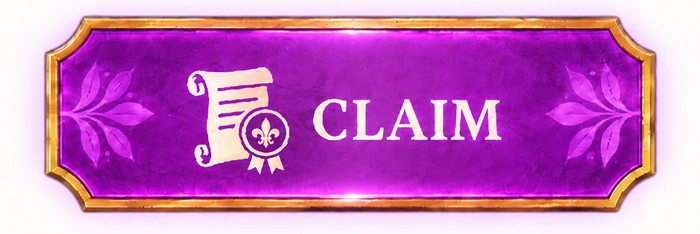
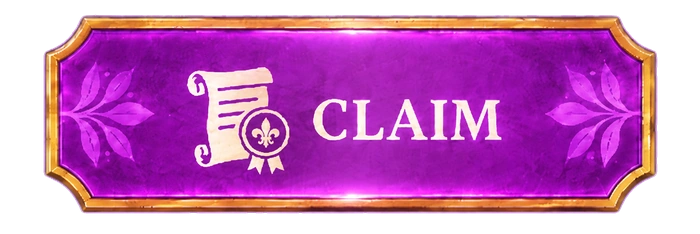
fix(action-images): issue 21 F4 transparent asset backgrounds

diff --git a/coup-client/src/components/game/Coup.js b/coup-client/src/components/game/Coup.js
@@ -14,7 +14,6 @@ import blockStealImage from '../../assets/action-buttons/bs.webp'
 import blockStealActiveImage from '../../assets/action-buttons/bs-active.webp'
 import challengeImage from '../../assets/action-buttons/c.webp'
 import challengeActiveImage from '../../assets/action-buttons/c-active.webp'
-import claimImage from '../../assets/action-buttons/claim.webp'
 import passImage from '../../assets/action-buttons/pass.webp'
 import passActiveImage from '../../assets/action-buttons/pass-active.webp'
 
@@ -229,8 +228,6 @@ export default class Coup extends Component {
                 {decision && <>
                     <p className="DecisionTitle">{decision.title}</p>
                     <p>{decision.description}</p>
-                    {(decision.type === 'challenge' || decision.type === 'block_challenge') &&
-                        <img className="DecisionClaimContext" src={claimImage} alt="" aria-hidden="true" />}
                     <div className="DecisionButtonsContainer">
                         {decision.options.map(option => {
                             const imageButton = responseButtonFor(decision, option)

diff --git a/coup-client/src/components/game/CoupStyles.css b/coup-client/src/components/game/CoupStyles.css
@@ -370,13 +370,6 @@
     line-height: 1.2;
 }
 
-.DecisionClaimContext {
-    display: block;
-    width: clamp(10rem, 46vw, 22rem);
-    max-width: 100%;
-    height: auto;
-    margin: 8px auto 12px;
-}
 #captain {
     background-color: #80C6E5;
 }

diff --git a/docs/plans/action-image-buttons/plan_action_image_buttons.md b/docs/plans/action-image-buttons/plan_action_image_buttons.md
@@ -1,18 +1,18 @@
 # Botones gráficos de respuesta de partida — issue #21
 
-**Estado:** `WAITING_ORCHESTRATOR`; F1 `CLOSED`; F2 `CLOSED`; F3 `BLOCKED`.
+**Estado:** `WAITING_ORCHESTRATOR`; F1/F2/F4 `CLOSED`; F3 `BLOCKED` hasta validación visual del usuario y walkthrough en navegador.
 **Unidad:** https://github.com/pronficilio/coup-online/issues/21
 **Handoff:** `docs/plans/active/issue_21_action_image_buttons.md`
 **Bitácora:** `docs/plans/log/issue-21.jsonl`
 **Modo / riesgo / verificación:** `FULL` / `MEDIUM` / `FINAL`.
 **Branch/worktree/PR:** `issue/21-action-image-buttons` / `.worktrees/issue-21-action-image-buttons` / una PR a `master` de `pronficilio/coup-online`.
-**Siguiente dueño:** Orquestador; F3 requiere un entorno con navegador para completar el recorrido manual.
+**Siguiente dueño:** Orquestador; F3 requiere validación visual del usuario y un entorno con navegador para completar el recorrido manual.
 
 ## Solicitud y éxito
 
-Preparar los pares gráficos `ba`, `bfa`, `bs`, `pass`, `c` y sus variantes `-active`, reducir cada fuente al 50 % de su tamaño actual manteniendo proporción, exportar WebP y colocarlos en el cliente React. Después del cierre F1 se añadió el par `claim`/`claim-active` para usar `claim` como contexto visual no interactivo. Reemplazar los botones de respuesta correspondientes y animar el cambio visual de estado.
+Preparar los pares gráficos `ba`, `bfa`, `bs`, `pass`, `c`, `claim` y sus variantes `-active`, reducir cada fuente al 50 % de su tamaño actual manteniendo proporción, exportar WebP y colocarlos en el cliente React. Reemplazar los botones de respuesta correspondientes y animar el cambio visual de estado. F4 removió el fondo exterior de los WebP y quitó Claim decorativo del renderer; la descripción textual conserva ese contexto.
 
-Éxito significa que las cinco acciones usan su ilustración correcta en las ventanas de respuesta, Claim aparece junto al contexto del reclamo y no como una opción, los doce archivos son WebP a la mitad de sus dimensiones de origen, las variantes activas se perciben con una transición breve y las reglas, elegibilidad, opciones y payloads permanecen intactos. La interacción conserva acceso por teclado, foco visible y movimiento reducido.
+Éxito significa que las cinco acciones usan su ilustración correcta en las ventanas de respuesta, los doce archivos son WebP con alfa a la mitad de sus dimensiones de origen actual, los halos y bordes permanecen visibles, las variantes activas se perciben con una transición breve y las reglas, elegibilidad, opciones y payloads permanecen intactos. La interacción conserva acceso por teclado, foco visible y movimiento reducido. F3 sigue `BLOCKED` hasta que el usuario valide visualmente los recursos corregidos y se realice walkthrough en navegador.
 
 ## Hechos, supuesto y dependencias
 
@@ -20,20 +20,20 @@ Preparar los pares gráficos `ba`, `bfa`, `bs`, `pass`, `c` y sus variantes `-ac
 - La issue #6 y PR #11 están cerradas/mergeadas. Esta solicitud necesita una unidad propia.
 - La PR #23 de #14 ya se integró en `master` en `2d82fa1e0d67ba9e48d7885f9c3ae171360425bd`; el worktree canónico #21 se sincronizó en el merge `b93a67c`. F2 ahora se implementa sobre el renderer genérico de `decision.options` y conserva `g-submitDecision({decisionId,stateVersion,choiceId})`. La PR #22 de #19 no toca `Coup.js` ni cambia este flujo.
 - Las fuentes están en `/mnt/e/dev/coup/fotos/`, carpeta ignorada por Git. El Ejecutor debe tratarlas como solo lectura; no sobrescribir los PNG. Crear derivados dentro del worktree y versionar los WebP del cliente.
-- Dimensiones fuente: `ba` 2172×724; `bfa` 1024×341; `bs` 1024×341; `pass` 1020×341; `c` 1400×468; `claim` 1400×468 (este último par se agregó después del cierre F1).
-- Las fuentes son RGB sin canal alfa; los derivados conservan el canvas y el fondo de cada fuente. F1 solo reduce dimensiones y convierte formato; no extrae mate ni reconstruye el arte.
-- Mitad esperada, redondeada al píxel más cercano: `ba` 1086×362; `bfa` 512×171; `bs` 512×171; `pass` 510×171; `c` 700×234; `claim` 700×234. Cada variante activa coincide con su par. F1 cerró sus diez imágenes originales; `claim`/`claim-active` son una adición de alcance procesada durante F2 con el mismo pipeline.
+- Dimensiones de fuentes RGB actuales en `/mnt/e/dev/coup/fotos/`: `ba` 2172×724; `bfa` 1024×341; `bs` 1024×341; `pass` 1020×341; `c` 1024×342; `claim` 1400×468. Los PNG se tratan como solo lectura.
+- F1 cerró diez WebP RGB preservando canvas/fondo. Claim se añadió como par después del cierre F1 y F2 lo exportó como RGB. F4 regeneró las doce salidas en RGBA, haciendo transparente el fondo exterior conectado a los bordes; el arte interior, los bordes y halos activos se conservan según la revisión de previews.
+- Dimensiones actuales al 50 %, redondeadas al píxel más cercano: `ba` 1086×362; `bfa` 512×171; `bs` 512×171; `pass` 510×171; `c` 512×171; `claim` 700×234. Cada variante activa coincide con su par. F1 documenta que la fuente de `c` entonces era 1400×468; la copia fuente actual es 1024×342 y F4 usa esta última.
 
 ## Alcance
 
-Incluye doce recursos (los diez entregados por F1 más `claim` y `claim-active` añadidos en F2) y los controles de respuesta `Challenge`, `Block Foreign Aid`, `Block Steal`, `Block Assassination` y `Pass`. Mapeo sobre el renderer genérico: `challenge` + choice `challenge` → `c`; choice `pass` → `pass`; tipo `block` + `block:duke` → `bfa`, `block:captain`/`block:ambassador` → `bs` con la elección textual preservada, y `block:contessa` → `ba`. `claim` aparece como recurso no interactivo en el contexto visual de las descripciones `challenge`/`block_challenge`; no crea una opción. Las variantes activas de los botones se usan en hover, foco visible y pulsación, con transición breve.
+Incluye doce recursos (diez entregados por F1 más `claim` y `claim-active` añadidos después del cierre F1) y los controles de respuesta `Challenge`, `Block Foreign Aid`, `Block Steal`, `Block Assassination` y `Pass`. Mapeo sobre el renderer genérico: `challenge` + choice `challenge` → `c`; choice `pass` → `pass`; tipo `block` + `block:duke` → `bfa`, `block:captain`/`block:ambassador` → `bs` con la elección textual preservada, y `block:contessa` → `ba`. Claim no crea una opción ni se renderiza como imagen desde F4 porque la descripción textual basta. Las variantes activas de los botones se usan en hover, foco visible y pulsación, con transición breve.
 
 Fuera de alcance: acciones principales del turno (`Income`, `Foreign Aid`, `Tax`, `Coup`, `Steal`, `Exchange`, `Assassinate`), reglas de juego, servidor, forma de Socket.IO, nombres de eventos/payloads y nueva biblioteca de animación.
 
 ## Criterios de aceptación
 
-1. Los diez derivados originales se reducen a 50 % en F1 y el par `claim` se añade durante F2; en total son doce WebP, con relación preservada y cada pareja normal/activa en dimensiones coincidentes.
-2. WebP versionados bajo una ruta de assets del cliente; canvas y fondo RGB conservados, sin recorte ni cambio visual deliberado.
+1. Los diez derivados originales se reducen a 50 % en F1 y el par `claim` se añade después; en total son doce WebP RGBA al 50 % de la fuente actual, con proporción preservada y parejas normal/activa en dimensiones coincidentes.
+2. WebP versionados bajo una ruta de assets del cliente; fondo exterior transparente, sin matte rectangular ni pérdida visible de arte, bordes o halos.
 3. Cada control visible utiliza el par correcto y conserva botón semántico, acción, destinatario, handlers, evento y payload actuales.
 4. La variante activa aparece con una transición perceptible al interactuar; no desplaza el layout ni retrasa la acción/socket.
 5. El nombre accesible, foco visible, teclado, contraste/legibilidad, ventana móvil y `prefers-reduced-motion` siguen siendo utilizables.
@@ -78,13 +78,23 @@ Fuera de alcance: acciones principales del turno (`Income`, `Foreign Aid`, `Tax`
 **Pregunta:** ¿se puede refutar que los recursos y controles son consistentes y utilizables?
 
 **Entrada:** F1/F2 cerradas y diff consolidado.
-**Evidencia:** build de producción, dimensiones y tamaños de los doce WebP, recorrido de las cinco respuestas y del contexto Claim en escritorio/móvil, foco/teclado y reduced motion; reporte F3 y dictamen independiente.
+**Evidencia:** build de producción, dimensiones y tamaños de los doce WebP, recorrido de las cinco respuestas en escritorio/móvil, foco/teclado y reduced motion; reporte F3 y dictamen independiente. La imagen Claim se retiró en F4; la descripción conserva el texto.
 **Falsificación:** buscar un par con escala incorrecta, halo o texto ilegible; activar acción con jugador no elegible; encontrar un evento/payload distinto, una respuesta inaccesible, un layout shift o transición que atrase el envío.
 **Avanzar:** AC1–AC6 sustentados y Verifier `PASS`; entregar a `WAITING_ORCHESTRATOR` para una PR única.
 **Bloquear:** build/recorrido imposible o F2 sigue sin liberar superficies compartidas.
 **Commit:** commit local de documentación F3 con veredicto `BLOCKED`; no marcar listo para revisión.
 
 **Resultado de revisión independiente (2026-09-27):** `BLOCKED`. El build y las inspecciones estáticas/formato pasaron; no hay navegador disponible para ejecutar el recorrido manual exigido por AC6 y verificar render móvil, foco e interacción. Ver `report_issue_21_F3.md`. No instalar dependencias ni navegador para esta revisión.
+
+### F4 — Corregir fondos WebP (`CLOSED`; F3 continúa `BLOCKED`)
+
+**Pregunta:** ¿se elimina el fondo exterior sin perder los bordes ni los halos de las imágenes?
+
+**Entrada:** feedback visual del usuario y fuentes PNG actuales en `/mnt/e/dev/coup/fotos/`.
+**Tareas:** regenerar las doce salidas WebP en RGBA al 50 % de las fuentes actuales, revisar previews compuestos sobre fondo slate y retirar el Claim decorativo de la ventana challenge.
+**Avanzar:** formato/modo/dimensiones verificados; los previews conservan el arte y halos y no muestran matte rectangular; build del cliente y `git diff --check` pasan.
+**Resultado:** F4 cierra la corrección local tras revisión visual/build. El par Claim permanece en el inventario pero no se muestra; no es una opción. F3 sigue bloqueada hasta validación visual del usuario y walkthrough manual en navegador.
+**Reporte:** `docs/plans/action-image-buttons/report_issue_21_F4.md`.
 
 ## Decisiones e historial
 
@@ -95,6 +105,7 @@ Fuera de alcance: acciones principales del turno (`Income`, `Foreign Aid`, `Tax`
 - 2026-09-27: #14 PR #23 integrada en `master` en `2d82fa1`; worktree #21 sincronizado con merge `b93a67c`. El usuario confirmó F2 sobre el renderer genérico y añadió `claim`/`claim-active` 1400×468 como contexto no interactivo. Claim se procesa al 50 % con el pipeline F1; diez WebP F1 más dos WebP Claim.
 - 2026-09-27: F2 completada en `feat(action-images): issue 21 F2 image response controls and transition`. `npm run build` compiló; no había navegador para recorrido visual, lo cual queda anotado en el reporte. La unidad espera Orquestador/Verifier para F3.
 - 2026-09-27: Verifier independiente F3: build y revisión estática PASS; formato/dimensiones/modo de doce WebP coinciden con el inventario F1/F2. F3 `BLOCKED`: no hay navegador para el walkthrough obligatorio; además, las copias ignoradas actuales de `c.png`/`c-active.png` son posteriores a F1 y no permiten confirmar la fuente histórica. Sin tests.
+- 2026-09-27: F4 correctiva por feedback visual: regenerados los doce WebP con alfa desde los PNG actuales (sin modificarlos), incluyendo `c`/`c-active` actuales 1024×342 → 512×171. Revisión de doce previews sin pérdida visible de halos/bordes ni matte rectangular; se retiró Claim decorativo del renderer. F3 continúa `BLOCKED` hasta validación visual del usuario y walkthrough; ver `report_issue_21_F4.md`.
 
 - 2026-09-27 04:42 UTC: Alquimista reclamó #21 mediante comentario, la releyó OPEN y confirmó que no había claim incompatible ni PR candidata; F1 activa en branch/worktree canónicos.
 

diff --git a/docs/plans/active/issue_21_action_image_buttons.md b/docs/plans/active/issue_21_action_image_buttons.md
@@ -3,13 +3,14 @@
 - **Issue:** https://github.com/pronficilio/coup-online/issues/21
 - **Plan exacto:** `docs/plans/action-image-buttons/plan_action_image_buttons.md`
 - **Bitácora exacta:** `docs/plans/log/issue-21.jsonl`
-- **Estado:** `WAITING_ORCHESTRATOR`; F1 `CLOSED`; F2 `CLOSED`; F3 `BLOCKED`.
+- **Estado:** `WAITING_ORCHESTRATOR`; F1/F2/F4 `CLOSED`; F3 `BLOCKED` hasta que el usuario valide visualmente los assets y se complete walkthrough con navegador.
 - **Reporte F1:** `docs/plans/action-image-buttons/report_issue_21_F1.md`.
 - **Modo / riesgo / verificación:** `FULL` / `MEDIUM` / `FINAL`.
 - **Reporte F3:** `docs/plans/action-image-buttons/report_issue_21_F3.md` (`BLOCKED`).
-- **Verifier requerido ahora:** revisión independiente completada; falta walkthrough en navegador para desbloquear F3.
+- **Reporte F4:** `docs/plans/action-image-buttons/report_issue_21_F4.md` (`CLOSED`).
+- **Verifier requerido ahora:** falta validación visual del usuario y walkthrough en navegador para desbloquear F3.
 - **Falsificación:** ¿hay un par con escala, formato o contenido incorrectos; una acción que se puede disparar por jugador no elegible; un payload/handler cambiado; un control sin acceso por teclado; un layout shift o transición que retrasa el envío?
-- **Estado de fase:** F1 y F2 cerradas. F2 adaptó los cinco botones al renderer genérico en la base sincronizada tras #14 PR #23 (`2d82fa1`, merge canónico #21 `b93a67c`) y añadió Claim como contexto no interactivo. F3 confirmó el build, contrato estático e inventario WebP, pero permanece bloqueada porque no hay navegador para completar el recorrido visual/teclado en escritorio y móvil.
+- **Estado de fase:** F1, F2 y F4 cerradas. F2 adaptó los cinco botones al renderer genérico en la base sincronizada tras #14 PR #23 (`2d82fa1`, merge canónico #21 `b93a67c`) y añadió el par Claim al inventario. F4 regeneró los doce WebP con alfa y quitó Claim decorativo del renderer. F3 sigue bloqueada hasta validación visual del usuario y walkthrough de las cinco respuestas con navegador en escritorio y móvil.
 - **Documentos fuente:** issue #21; plan exacto arriba; `docs/plans/turn-actions-panel/plan_turn_actions_panel.md`; `docs/plans/game-language/plan_game_language.md`; componentes en `coup-client/src/components/game/`.
 
 ## Subtareas listas
@@ -20,7 +21,7 @@
 4. F1 verificada visualmente y por formato/dimensiones/modo; reporte `docs/plans/action-image-buttons/report_issue_21_F1.md`; commit `feat(action-images): issue 21 F1 import optimized webp controls`.
 5. #14 PR #23 se integró a `master`; #21 se sincronizó en `b93a67c`. F2 activa sobre `Coup.js` genérico; conservar `decision.options` y `g-submitDecision({decisionId,stateVersion,choiceId})`.
 6. Mapear Challenge (`challenge`), Pass (`pass`), Block Foreign Aid (`block:duke`), Block Steal (`block:captain`/`block:ambassador`) y Block Assassination (`block:contessa`) a sus imágenes. Mantener el texto de Captain/Ambassador y otros tipos de opción.
-7. Añadir Claim al 50 % como imagen contextual no interactiva solo en descripciones de `challenge`/`block_challenge`; no crear opción Claim.
+7. F2 añadió el par Claim al inventario sin crear opción Claim; F4 quitó la imagen contextual. Las descripciones textuales permanecen.
 8. Añadir transición breve entre estados normal/activo con nombre accesible, foco, teclado y `prefers-reduced-motion`; compilar y recorrer manualmente.
 9. Dejar la unidad `WAITING_ORCHESTRATOR`; no integrar ni cerrar. Preparar material para Verifier independiente FINAL.
 
@@ -28,13 +29,14 @@
 
 Cumplir AC1–AC7 del plan. Build del cliente, inspección de los diez WebP y recorrido manual registrados en los reportes; no añadir ni ejecutar tests automatizados. Fuera de alcance: acciones principales, reglas, servidor, Socket.IO, nueva dependencia de animación.
 
-**Riesgo/bloqueos:** archivos fuente ignorados en RGB; preservar el canvas y el fondo. No hay navegador ejecutable desde esta sesión WSL: Chrome del host (`/mnt/c/Program Files/Google/Chrome/Application/chrome.exe`) falla antes de iniciar con `UtilBindVsockAnyPort:307`; no se instalaron navegadores. Se requiere walkthrough de las cinco respuestas y contexto Claim en escritorio/móvil, teclado/foco y reduced motion para cambiar F3 de `BLOCKED`. Las copias actuales ignoradas de `c.png`/`c-active.png` tienen 1024×342 RGB y mtime posterior a F1; no sustituyen las fuentes históricas de 1400×468 documentadas por F1.
+**Riesgo/bloqueos:** fuentes ignoradas RGB sin modificaciones; F4 elimina solo el fondo exterior y mantiene bordes/halos según preview. No hay navegador ejecutable desde esta sesión WSL: Chrome del host (`/mnt/c/Program Files/Google/Chrome/Application/chrome.exe`) falla antes de iniciar con `UtilBindVsockAnyPort:307`; no se instalaron navegadores. El usuario debe validar visualmente los assets y hace falta walkthrough de las cinco respuestas en escritorio/móvil, teclado/foco y reduced motion para cambiar F3 de `BLOCKED`. Las copias actuales ignoradas de `c.png`/`c-active.png` miden 1024×342 RGB y F4 las usó para salidas de 512×171; no sustituyen las fuentes históricas de 1400×468 documentadas por F1.
 
 ## Commits por fase
 
 - F1 `94b1447bb0b5fb1613e3f7cf226993077a2f0da7`: `feat(action-images): issue 21 F1 import optimized webp controls`
 - F2 `4d288199d14ccfeeeaec5a35dd4230b893ee0b4f`: `feat(action-images): issue 21 F2 image response controls and transition`
 - F3: commit local de documentación con reporte `BLOCKED`; el recorrido manual sigue pendiente antes de revisión de integración.
+- F4: cierre canónico en esta fase; corrección de alfa, retirada de Claim decorativo, build y revisión de previews.
 
 ## Topología y reclamo
 
@@ -44,8 +46,8 @@ Cumplir AC1–AC7 del plan. Build del cliente, inspección de los diez WebP y re
 - **PR esperada:** una desde la rama del issue a `master`.
 - **Bitácora:** `docs/plans/log/issue-21.jsonl` (append-only).
 - **Secuencia:** primero registrar claim en el issue del fork y releer; luego crear/confirmar una sola branch/worktree desde `origin/master` actualizada; dentro del worktree mover este inbox a `active/`, registrar claim/worktree/phase_start en JSONL y commitear control.
-- **Validaciones:** F1 conserva su reporte de diez imágenes; Claim y F2 están documentados en `report_issue_21_F2.md`; `npm run build` pasó; recorrido visual pendiente por falta de navegador; no tests.
-- **Delegación:** Alquimista cerró F2 en el worktree canónico actualizado tras #14 PR #23; Verifier independiente completó F3 como `BLOCKED`.
+- **Validaciones:** F1 conserva su reporte histórico de diez imágenes; el par Claim se añadió después; F2 está documentada en `report_issue_21_F2.md`; F4 registra inventario RGBA actual y resultado de build; recorrido visual en navegador pendiente; no tests.
+- **Delegación:** Alquimista cerró F2 en el worktree canónico actualizado tras #14 PR #23; Verifier dejó F3 `BLOCKED`; Alquimista cerró F4 correctiva y mantiene F3 bloqueada hasta validación visual del usuario.
 - **Verifier:** revisión F3 independiente registrada en `report_issue_21_F3.md`; está `BLOCKED` por falta de navegador para el walkthrough de AC6.
 
 ## Confirmación de reclamo y aislamiento
@@ -54,4 +56,8 @@ Issue #21 releída antes de reanudar F2: OPEN, sin assignee, con reclamo F1 y co
 
 ## F1 entregada
 
-F1 produjo diez derivados WebP al 50 %, preservando los canvas RGB. Después se añadió Claim; F2 generó sus dos variantes al 50 % con el mismo encoder, pero usa solo `claim.webp` como contexto visual no interactivo. Ver `docs/plans/action-image-buttons/report_issue_21_F1.md` y `report_issue_21_F2.md`.
+F1 produjo diez derivados WebP al 50 %, preservando los canvas RGB. Después se añadió Claim; F2 generó sus dos variantes como recursos contextuales no interactivos. F4 regeneró las doce salidas con alfa y retiró Claim visual del renderer. Ver `docs/plans/action-image-buttons/report_issue_21_F1.md`, `report_issue_21_F2.md` y `report_issue_21_F4.md`.
+
+## Corrección visual F4
+
+F4 generó las seis parejas desde las fuentes RGB actuales a WebP RGBA al 50 %, sin modificar PNG. `c`/`c-active` actuales miden 1024×342 y sus salidas, 512×171 (F1 conserva el dato histórico de 1400×468). Las previews revisadas conservan arte, bordes y halos sin matte rectangular. El Claim gráfico no se muestra; la descripción de la decisión mantiene ese contexto. F3 sigue `BLOCKED` hasta validación visual del usuario y walkthrough en navegador.

diff --git a/docs/plans/action-image-buttons/report_issue_21_F4.md b/docs/plans/action-image-buttons/report_issue_21_F4.md
@@ -1,0 +1,53 @@
+# Reporte F4 — issue #21: corrección visual de fondos WebP
+
+**Estado:** `CLOSED`; unidad `WAITING_ORCHESTRATOR`; F3 permanece `BLOCKED`.
+**Branch/worktree:** `issue/21-action-image-buttons` / `.worktrees/issue-21-action-image-buttons`.
+**Base revisada:** F3 documental `c88a223`; rama #21 conserva el merge de base `b93a67c` que integra #14 PR #23 (`2d82fa1`).
+**Motivo:** feedback visual del usuario: eliminar el fondo exterior de las imágenes y conservar todos los bordes y resplandores.
+
+## Cambios
+
+- Regeneré los doce WebP desde las fuentes PNG RGB ignoradas de `/mnt/e/dev/coup/fotos/`. Las fuentes se trataron como solo lectura y no se editaron.
+- Matriz de fases: F1 cerró diez recursos en las cinco parejas `ba`, `bfa`, `bs`, `pass` y `c`; Claim se añadió como pareja después del cierre F1, durante F2. F4 reprocesó las seis parejas a RGBA desde las fuentes actuales. Esto actualiza los archivos entregados, sin reescribir los registros históricos F1/F2.
+- `c.png`/`c-active.png` actuales miden 1024×342, así que sus WebP actuales son 512×171. F1 conserva el dato histórico de las fuentes usadas entonces (1400×468). No se sobrescribieron PNG.
+- Se quitó de `Coup.js` el `<img>` decorativo Claim y de CSS la regla `.DecisionClaimContext`. La descripción textual sigue explicando el reclamo; no hay opción Claim. Los dos archivos WebP Claim permanecen en el inventario sin renderizarse.
+
+## Pipeline e inventario
+
+Para separar fondo de arte, marqué candidatos de color casi neutro (diferencia entre canales ≤60 y canal máximo ≥75), cerré huecos pequeños con filtros morfológicos de 5 px y eliminé solo la región candidata conectada a los bordes. Después redimensioné RGBA con LANCZOS y exporté WebP con quality 95/method 6. Las previews se compusieron sobre slate oscuro para revisar mates y píxeles residuales; están en `/tmp/issue21-bg-review-v3/`.
+
+Pillow reabrió todos los derivados como WebP RGBA con alfa no opaco. Las dimensiones son el 50 % de la fuente actual, con redondeo half-up; las parejas coinciden.
+
+| Archivo | Fuente | WebP actual | Modo | Bytes |
+|---|---:|---:|---|---:|
+| `ba.webp` | 2172×724 | 1086×362 | RGBA | 109,286 |
+| `ba-active.webp` | 2172×724 | 1086×362 | RGBA | 121,316 |
+| `bfa.webp` | 1024×341 | 512×171 | RGBA | 26,166 |
+| `bfa-active.webp` | 1024×341 | 512×171 | RGBA | 28,590 |
+| `bs.webp` | 1024×341 | 512×171 | RGBA | 31,780 |
+| `bs-active.webp` | 1024×341 | 512×171 | RGBA | 39,100 |
+| `pass.webp` | 1020×341 | 510×171 | RGBA | 23,058 |
+| `pass-active.webp` | 1020×341 | 510×171 | RGBA | 29,496 |
+| `c.webp` | 1024×342 | 512×171 | RGBA | 23,386 |
+| `c-active.webp` | 1024×342 | 512×171 | RGBA | 28,954 |
+| `claim.webp` | 1400×468 | 700×234 | RGBA | 40,010 |
+| `claim-active.webp` | 1400×468 | 700×234 | RGBA | 46,932 |
+
+## Revisión visual
+
+Inspeccioné los doce previews. Las placas, texto, ornamentos, contornos dorados y resplandores de las variantes activas se conservan. El fondo exterior queda transparente y no aparece un matte rectangular. Los halos de `ba-active`, `bfa-active`, `bs-active`, `pass-active`, `c-active` y `claim-active` siguen visibles. No usé imagegen ni modifiqué las fuentes.
+
+Es una inspección local de previews, no una validación final de la interfaz. El usuario debe revisar visualmente los assets en la app.
+
+## Validación
+
+- Formato, modo, dimensiones, alfa y coincidencia de pares: **PASS** por inspección con Pillow.
+- Revisión de las doce previews: **PASS**, sin pérdida visible de halos/bordes ni matte rectangular.
+- Claim decorativo y `.DecisionClaimContext`: **PASS**, eliminados; `decision.description` permanece.
+- `npm run build` en `coup-client`: **PASS**, `Compiled with warnings`. Warnings preexistentes: imports `logo`/`Link` sin uso en `src/App.js`, parseo de `dvh` en `ReferencePanel.css:100,106`, aviso de `caniuse-lite` y deprecación de `fs.F_OK`; no hubo warnings de los archivos cambiados.
+- `git diff --check`: **PASS** después de actualizar documentos.
+- No ejecuté tests automatizados. No detuve ni reinicié servidores locales.
+
+## Estado y límite
+
+F4 cierra la corrección local. F3 continúa `BLOCKED` hasta validación visual del usuario y walkthrough manual en navegador de las cinco respuestas en escritorio/móvil, teclado/foco y reduced motion. No hice push, PR, merge ni cierre de issue.

diff --git a/docs/plans/README_plans.md b/docs/plans/README_plans.md
@@ -16,7 +16,7 @@ GitHub Issues es la fuente de estado de las unidades: la [issue #1](https://gith
 - [#6 — panel de acciones del turno](https://github.com/pronficilio/coup-online/issues/6): `CLOSED` al integrar el [PR #11](https://github.com/pronficilio/coup-online/pull/11). F2/F3 pasaron en escritorio y móvil; queda registrada la observación parcial de que no se alcanzó a verificar la eliminación del jugador local. Plan: `docs/plans/turn-actions-panel/plan_turn_actions_panel.md`; reporte F3: `docs/plans/turn-actions-panel/report_issue_6_F3.md`; bitácora: `docs/plans/log/issue-6.jsonl`.
 - [#8 — referencias visuales para la partida](https://github.com/pronficilio/coup-online/issues/8): `CLOSED` al integrar el [PR #12](https://github.com/pronficilio/coup-online/pull/12), que agregó los cuatro WebP y el componente `ReferencePanel` aislado. La auditoría confirmó que el panel no se montó en `Coup.js`; ese acceso se completó en [#18](https://github.com/pronficilio/coup-online/issues/18) mediante una integración independiente. Plan histórico: `docs/plans/game-reference-materials/plan_game_reference_materials.md`; handoff histórico: `docs/plans/active/issue_8_game_reference_materials.md`; bitácora: `docs/plans/log/issue-8.jsonl`.
 - [#18 — acceso a las referencias en la partida](https://github.com/pronficilio/coup-online/issues/18): `CLOSED`, integrada a `master` en `64a507dcefa3ffea2ecf60653755342930c49f09` mediante [PR #20](https://github.com/pronficilio/coup-online/pull/20). F1 pasó revisión manual de escritorio/móvil. Plan: `docs/plans/reference-access/plan_reference_access.md`; handoff: `docs/plans/active/issue_18_reference_access.md`; reporte: `docs/plans/reference-access/report_issue_18_F1.md`; bitácora: `docs/plans/log/issue-18.jsonl`.
-- [#21 — botones gráficos de respuesta](https://github.com/pronficilio/coup-online/issues/21): `WAITING_ORCHESTRATOR`; F1/F2 `CLOSED`, F3 `BLOCKED` por falta de navegador para el walkthrough requerido. Build, contrato estático e inventario WebP revisados. Plan: `docs/plans/action-image-buttons/plan_action_image_buttons.md`; handoff: `docs/plans/active/issue_21_action_image_buttons.md`; reportes: `docs/plans/action-image-buttons/report_issue_21_F1.md`, `report_issue_21_F2.md`, `report_issue_21_F3.md`; bitácora: `docs/plans/log/issue-21.jsonl`.
+- [#21 — botones gráficos de respuesta](https://github.com/pronficilio/coup-online/issues/21): `WAITING_ORCHESTRATOR`; F1/F2/F4 `CLOSED`; F3 `BLOCKED` hasta validación visual del usuario y walkthrough en navegador. F4 regeneró los doce WebP con alfa, quitó Claim decorativo y revisó previews/build. Plan: `docs/plans/action-image-buttons/plan_action_image_buttons.md`; handoff: `docs/plans/active/issue_21_action_image_buttons.md`; reportes: `docs/plans/action-image-buttons/report_issue_21_F1.md`, `report_issue_21_F2.md`, `report_issue_21_F3.md`, `report_issue_21_F4.md`; bitácora: `docs/plans/log/issue-21.jsonl`.
 - [#9](https://github.com/pronficilio/coup-online/issues/9) registra el pulido visual del tablero circular; su worktree canónico es `.worktrees/issue-9-circular-board-visual-polish`.
 - [#13 — despliegue en Hetzner](https://github.com/pronficilio/coup-online/issues/13) conserva el procedimiento de release regular. El usuario autorizó para la prueba de #14 un release POC independiente y reversible, sin cambios a DNS/Nginx.
 - [#14 — jugadores Codex](https://github.com/pronficilio/coup-online/issues/14): implementación en `issue/14-codex-ai-players`; F0/F1 `PASS`; en Hetzner, web `coup-web:84b6f96` y API/runner `4ab5e52` están saludables; OAuth normal y una decisión real de GPT-6 Luna verificadas. [PR draft #23](https://github.com/pronficilio/coup-online/pull/23) contra `master`; escenarios manuales completos pendientes. Guía de montaje: `docs/codex-ai-players/README.md`; plan: `docs/plans/codex-ai-players/plan_codex_ai_players.md`; F2: `docs/plans/codex-ai-players/f2_codex_runner.md`; runbook: `docs/plans/codex-ai-players/poc-runbook.md`; handoff: `docs/plans/active/issue_14_codex_ai_players.md`; bitácora: `docs/plans/log/issue-14.jsonl`.
